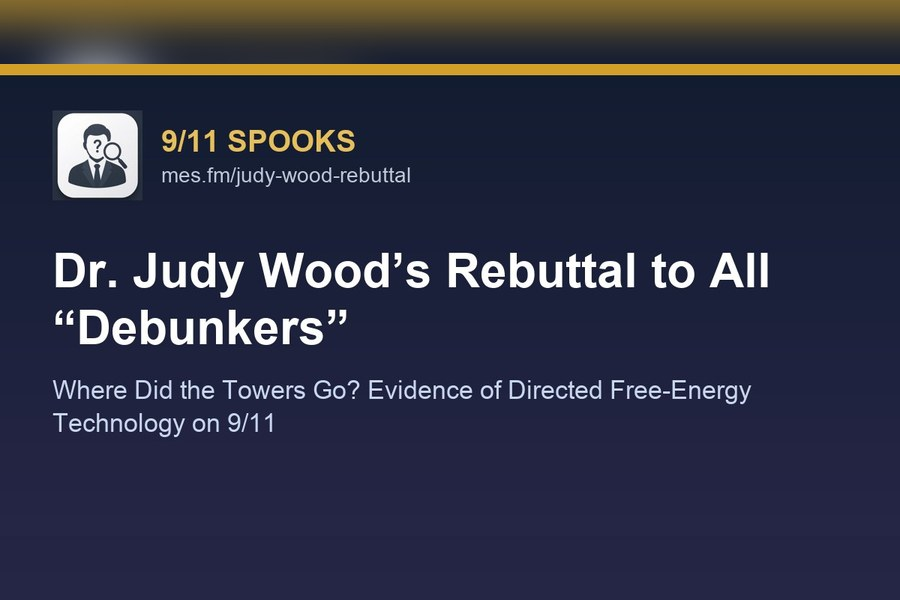
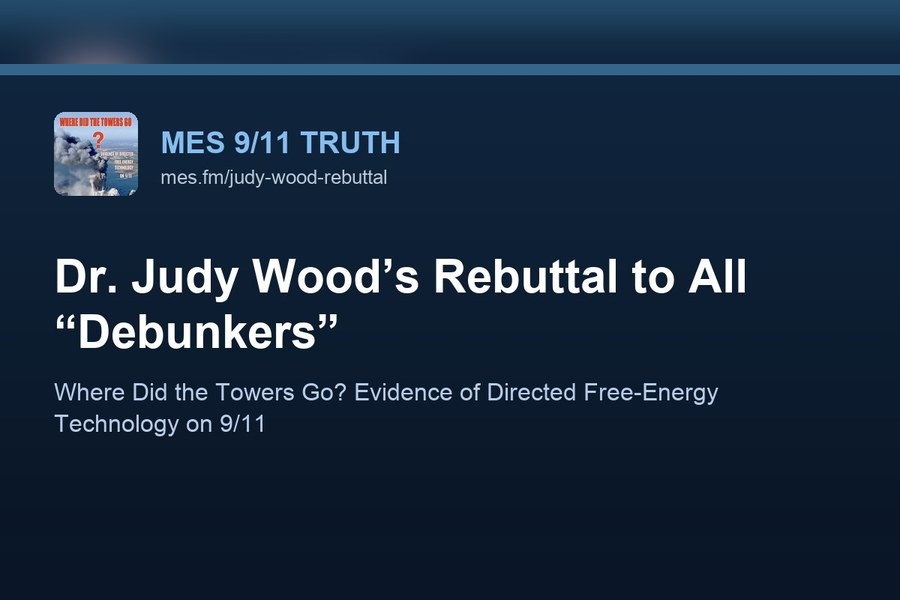
Judy Wood rebuttal: 9/11 Truth theme, own tile on the 9/11 Spooks hub
The page now uses the MES 9/11 Truth shell (logo, title, tagline, favicon,
floating bar, 9/11 Truth | Posts | Spooks info bar) instead of the 9/11 Spooks
brand, and its share card was redrawn in the 9/11 Truth colours with that
logo. It is no longer in the 9/11 Spooks Posts list: /911spooks gets a
tile-only entry instead (img/judy-wood-rebuttal-icon.jpg, the card fitted to
900x600), and the Spooks Posts tile goes back to the newest remaining post
(David Hughes = Fetzer 2.0). It stays at the top of 9/11 Truth Posts, whose
tile was refreshed with the new card.

diff --git a/mes.fm/911spooks-all/index.html b/mes.fm/911spooks-all/index.html
@@ -1038,12 +1038,12 @@ body.dark-mode .lp button:focus-visible, body.dark .lp button:focus-visible { ou
 <meta property="og:url" content="https://mes.fm/911spooks-all" />
 <meta property="og:title" content="All 9/11 Spooks Content" />
 <meta property="og:image" content="https://mes.fm/img/911spooks-logo-big.jpg" />
-<meta property="og:description" content="Everything in MES 9/11 Spooks on one page: all 17 posts, videos and articles from every section, searchable, with a filter per section and Grid or List view." />
-<meta name="description" content="Everything in MES 9/11 Spooks on one page: all 17 posts, videos and articles from every section, searchable, with a filter per section and Grid or List view.">
+<meta property="og:description" content="Everything in MES 9/11 Spooks on one page: all 16 posts, videos and articles from every section, searchable, with a filter per section and Grid or List view." />
+<meta name="description" content="Everything in MES 9/11 Spooks on one page: all 16 posts, videos and articles from every section, searchable, with a filter per section and Grid or List view.">
 <meta name="twitter:card" content="summary">
 <meta name="twitter:site" content="@MathEasySolns">
 <meta name="twitter:title" content="All 9/11 Spooks Content">
-<meta name="twitter:description" content="Everything in MES 9/11 Spooks on one page: all 17 posts, videos and articles from every section, searchable, with a filter per section and Grid or List view.">
+<meta name="twitter:description" content="Everything in MES 9/11 Spooks on one page: all 16 posts, videos and articles from every section, searchable, with a filter per section and Grid or List view.">
 <meta name="twitter:image" content="https://mes.fm/img/911spooks-logo-big.jpg">
 <meta name="twitter:image:alt" content="All 9/11 Spooks Content">
 <script>
@@ -1244,7 +1244,7 @@ body.dark-mode .lp button:focus-visible, body.dark .lp button:focus-visible { ou
         <p class="page-breadcrumb"><a href="/911spooks">&larr; 9/11 Spooks</a></p>
         <div class="color-box"></div>
         <h1 class="page-title">All 9/11 Spooks Content</h1>
-        <p class="page-description">Everything in MES 9/11 Spooks on one page: all 17 posts, videos and articles from every section, searchable, with a filter per section and Grid or List view.</p>
+        <p class="page-description">Everything in MES 9/11 Spooks on one page: all 16 posts, videos and articles from every section, searchable, with a filter per section and Grid or List view.</p>
         <div id="main-content">
           <div class="wide">
 <div class="list-container">
@@ -1252,9 +1252,9 @@ body.dark-mode .lp button:focus-visible, body.dark .lp button:focus-visible { ou
   
     <div class="ls-filter" id="911spooks-allFilter">
       <input type="search" id="911spooks-allSearch" placeholder="Search everything in 9/11 Spooks…" aria-label="Search" autocomplete="off">
-      <div class="lp-row"><div class="ls-chips" id="911spooks-allChips"><button type="button" data-c="all" data-label="All" aria-pressed="true">All (17)</button><button type="button" data-c="s-911spooks-posts" data-label="Posts" aria-pressed="false">Posts (15)</button><button type="button" data-c="s-911spooks-videos" data-label="Videos" aria-pressed="false">Videos (2)</button></div>
+      <div class="lp-row"><div class="ls-chips" id="911spooks-allChips"><button type="button" data-c="all" data-label="All" aria-pressed="true">All (16)</button><button type="button" data-c="s-911spooks-posts" data-label="Posts" aria-pressed="false">Posts (14)</button><button type="button" data-c="s-911spooks-videos" data-label="Videos" aria-pressed="false">Videos (2)</button></div>
       <div class="lp" data-lp role="group" aria-label="Open links in">
-        <span class="lp-lbl" aria-hidden="true">Open in:</span><button type="button" data-s="auto" aria-pressed="true" aria-label="Open in: Auto (the usual link: the mes.fm page when there is one)" title="Auto: the usual link (the mes.fm page when there is one)">Auto</button><button type="button" data-s="mes" data-label="MES.fm" aria-pressed="false" aria-label="Open in MES.fm (17 of 17 have a MES.fm link)" title="Open in MES.fm (17 of 17 have a MES.fm link)"><span class="lp-ic" data-s="mes" aria-hidden="true"></span><span class="lp-n">17</span></button><button type="button" data-s="youtube" data-label="YouTube" aria-pressed="false" aria-label="Open in YouTube (3 of 17 have a YouTube link)" title="Open in YouTube (3 of 17 have a YouTube link)" class="lp-few"><span class="lp-ic" data-s="youtube" aria-hidden="true"></span><span class="lp-n">3</span></button><button type="button" data-s="hive" data-label="Hive" aria-pressed="false" aria-label="Open in Hive (10 of 17 have a Hive link)" title="Open in Hive (10 of 17 have a Hive link)"><span class="lp-ic" data-s="hive" aria-hidden="true"></span><span class="lp-n">10</span></button><button type="button" data-s="3speak" data-label="3Speak" aria-pressed="false" aria-label="Open in 3Speak (3 of 17 have a 3Speak link)" title="Open in 3Speak (3 of 17 have a 3Speak link)" class="lp-few"><span class="lp-ic" data-s="3speak" aria-hidden="true"></span><span class="lp-n">3</span></button><button type="button" data-s="telegram" data-label="Telegram" aria-pressed="false" aria-label="Open in Telegram (11 of 17 have a Telegram link)" title="Open in Telegram (11 of 17 have a Telegram link)"><span class="lp-ic" data-s="telegram" aria-hidden="true"></span><span class="lp-n">11</span></button>
+        <span class="lp-lbl" aria-hidden="true">Open in:</span><button type="button" data-s="auto" aria-pressed="true" aria-label="Open in: Auto (the usual link: the mes.fm page when there is one)" title="Auto: the usual link (the mes.fm page when there is one)">Auto</button><button type="button" data-s="mes" data-label="MES.fm" aria-pressed="false" aria-label="Open in MES.fm (16 of 16 have a MES.fm link)" title="Open in MES.fm (16 of 16 have a MES.fm link)"><span class="lp-ic" data-s="mes" aria-hidden="true"></span><span class="lp-n">16</span></button><button type="button" data-s="youtube" data-label="YouTube" aria-pressed="false" aria-label="Open in YouTube (3 of 16 have a YouTube link)" title="Open in YouTube (3 of 16 have a YouTube link)" class="lp-few"><span class="lp-ic" data-s="youtube" aria-hidden="true"></span><span class="lp-n">3</span></button><button type="button" data-s="hive" data-label="Hive" aria-pressed="false" aria-label="Open in Hive (10 of 16 have a Hive link)" title="Open in Hive (10 of 16 have a Hive link)"><span class="lp-ic" data-s="hive" aria-hidden="true"></span><span class="lp-n">10</span></button><button type="button" data-s="3speak" data-label="3Speak" aria-pressed="false" aria-label="Open in 3Speak (3 of 16 have a 3Speak link)" title="Open in 3Speak (3 of 16 have a 3Speak link)" class="lp-few"><span class="lp-ic" data-s="3speak" aria-hidden="true"></span><span class="lp-n">3</span></button><button type="button" data-s="telegram" data-label="Telegram" aria-pressed="false" aria-label="Open in Telegram (11 of 16 have a Telegram link)" title="Open in Telegram (11 of 16 have a Telegram link)"><span class="lp-ic" data-s="telegram" aria-hidden="true"></span><span class="lp-n">11</span></button>
       </div></div>
     </div>
     <p class="ls-empty" id="911spooks-allEmpty" hidden>Nothing matches. Try fewer words or a different filter.</p>
@@ -1264,13 +1264,6 @@ body.dark-mode .lp button:focus-visible, body.dark .lp button:focus-visible { ou
       
     </div>
     <div class="card-grid" id="911spooks-allGrid">
-    <a class="link-card lp-a" data-cats="s-911spooks-posts" data-kw="Posts" data-lp-def="mes" data-l-mes="https://mes.fm/judy-wood-rebuttal" href="https://mes.fm/judy-wood-rebuttal">
-      <span class="link-card-thumb" style="background-image:url('https://mes.fm/judy-wood-rebuttal/img/judy-wood-rebuttal.jpg')"></span>
-      <span class="link-card-body">
-        <span class="link-card-title">Dr. Judy Wood's Rebuttal to All the “Debunkers”</span>
-        <span class="link-card-readmore"><span class="lp-ic" data-s="mes" aria-hidden="true"></span><span class="lp-name">View on MES.fm</span> &rarr;</span>
-      </span>
-    </a>
     <a class="link-card lp-a" data-cats="s-911spooks-posts" data-kw="Posts" data-lp-def="mes" data-l-mes="https://mes.fm/david-hughes-fetzer-2.0" data-l-hive="https://peakd.com/hive-113182/@mes/dear-dr-david-a-fetzer-j1c" href="https://mes.fm/david-hughes-fetzer-2.0">
       <span class="link-card-thumb" style="background-image:url('https://mes.fm/david-hughes-fetzer-2.0/img/hurricane-meme-og.jpg')"></span>
       <span class="link-card-body">
@@ -1385,11 +1378,6 @@ body.dark-mode .lp button:focus-visible, body.dark .lp button:focus-visible { ou
     </a>
     </div>
     <div class="list-view view-hidden" id="911spooks-allList">
-    <div class="list-row" data-cats="s-911spooks-posts" data-kw="Posts">
-      <h3><a class="lp-a" href="https://mes.fm/judy-wood-rebuttal" data-lp-def="mes" data-l-mes="https://mes.fm/judy-wood-rebuttal">Dr. Judy Wood's Rebuttal to All the “Debunkers”<span class="lp-ic" data-s="mes" aria-hidden="true"></span></a></h3>
-      <p><a href="https://mes.fm/judy-wood-rebuttal" target="_blank" rel="noopener">Notes</a></p>
-      <img class="list-thumb" src="https://mes.fm/judy-wood-rebuttal/img/judy-wood-rebuttal.jpg" alt="Dr. Judy Wood's Rebuttal to All the “Debunkers”">
-    </div>
     <div class="list-row" data-cats="s-911spooks-posts" data-kw="Posts">
       <h3><a class="lp-a" href="https://mes.fm/david-hughes-fetzer-2.0" data-lp-def="mes" data-l-mes="https://mes.fm/david-hughes-fetzer-2.0" data-l-hive="https://peakd.com/hive-113182/@mes/dear-dr-david-a-fetzer-j1c">Dear Dr. David A. Fetzer...<span class="lp-ic" data-s="mes" aria-hidden="true"></span></a></h3>
       <p><a href="https://mes.fm/david-hughes-fetzer-2.0" target="_blank" rel="noopener">Notes</a> - <a href="https://peakd.com/hive-113182/@mes/dear-dr-david-a-fetzer-j1c" target="_blank" rel="noopener">Hive</a></p>

diff --git a/mes.fm/911spooks-posts/index.html b/mes.fm/911spooks-posts/index.html
@@ -1252,9 +1252,9 @@ body.dark-mode .lp button:focus-visible, body.dark .lp button:focus-visible { ou
   
     <div class="ls-filter" id="911spooks-postsFilter">
       <input type="search" id="911spooks-postsSearch" placeholder="Search the spooks…" aria-label="Search" autocomplete="off">
-      <div class="lp-row"><div class="ls-chips" id="911spooks-postsChips"><button type="button" data-c="all" data-label="All" aria-pressed="true">All (15)</button><button type="button" data-c="bob" data-label="Bob Greenyer" aria-pressed="false">Bob Greenyer (4)</button><button type="button" data-c="revisionist" data-label="9/11 Revisionist" aria-pressed="false">9/11 Revisionist (6)</button><button type="button" data-c="abby" data-label="Abby Martin" aria-pressed="false">Abby Martin (1)</button><button type="button" data-c="hughes" data-label="David Hughes" aria-pressed="false">David Hughes (2)</button><button type="button" data-c="fetzer" data-label="Jim Fetzer" aria-pressed="false">Jim Fetzer (1)</button><button type="button" data-c="ryan" data-label="Ryan Bannister" aria-pressed="false">Ryan Bannister (3)</button><button type="button" data-c="mason" data-label="Andrew Mason" aria-pressed="false">Andrew Mason (1)</button><button type="button" data-c="offguardian" data-label="Off Guardian" aria-pressed="false">Off Guardian (1)</button><button type="button" data-c="other" data-label="Everything else" aria-pressed="false">Everything else (3)</button></div>
+      <div class="lp-row"><div class="ls-chips" id="911spooks-postsChips"><button type="button" data-c="all" data-label="All" aria-pressed="true">All (14)</button><button type="button" data-c="bob" data-label="Bob Greenyer" aria-pressed="false">Bob Greenyer (4)</button><button type="button" data-c="revisionist" data-label="9/11 Revisionist" aria-pressed="false">9/11 Revisionist (6)</button><button type="button" data-c="abby" data-label="Abby Martin" aria-pressed="false">Abby Martin (1)</button><button type="button" data-c="hughes" data-label="David Hughes" aria-pressed="false">David Hughes (2)</button><button type="button" data-c="fetzer" data-label="Jim Fetzer" aria-pressed="false">Jim Fetzer (1)</button><button type="button" data-c="ryan" data-label="Ryan Bannister" aria-pressed="false">Ryan Bannister (3)</button><button type="button" data-c="mason" data-label="Andrew Mason" aria-pressed="false">Andrew Mason (1)</button><button type="button" data-c="offguardian" data-label="Off Guardian" aria-pressed="false">Off Guardian (1)</button><button type="button" data-c="other" data-label="Everything else" aria-pressed="false">Everything else (2)</button></div>
       <div class="lp" data-lp role="group" aria-label="Open links in">
-        <span class="lp-lbl" aria-hidden="true">Open in:</span><button type="button" data-s="auto" aria-pressed="true" aria-label="Open in: Auto (the usual link: the mes.fm page when there is one)" title="Auto: the usual link (the mes.fm page when there is one)">Auto</button><button type="button" data-s="mes" data-label="MES.fm" aria-pressed="false" aria-label="Open in MES.fm (15 of 15 have a MES.fm link)" title="Open in MES.fm (15 of 15 have a MES.fm link)"><span class="lp-ic" data-s="mes" aria-hidden="true"></span><span class="lp-n">15</span></button><button type="button" data-s="youtube" data-label="YouTube" aria-pressed="false" aria-label="Open in YouTube (1 of 15 have a YouTube link)" title="Open in YouTube (1 of 15 have a YouTube link)" class="lp-few"><span class="lp-ic" data-s="youtube" aria-hidden="true"></span><span class="lp-n">1</span></button><button type="button" data-s="hive" data-label="Hive" aria-pressed="false" aria-label="Open in Hive (10 of 15 have a Hive link)" title="Open in Hive (10 of 15 have a Hive link)"><span class="lp-ic" data-s="hive" aria-hidden="true"></span><span class="lp-n">10</span></button><button type="button" data-s="3speak" data-label="3Speak" aria-pressed="false" aria-label="Open in 3Speak (1 of 15 have a 3Speak link)" title="Open in 3Speak (1 of 15 have a 3Speak link)" class="lp-few"><span class="lp-ic" data-s="3speak" aria-hidden="true"></span><span class="lp-n">1</span></button><button type="button" data-s="telegram" data-label="Telegram" aria-pressed="false" aria-label="Open in Telegram (9 of 15 have a Telegram link)" title="Open in Telegram (9 of 15 have a Telegram link)"><span class="lp-ic" data-s="telegram" aria-hidden="true"></span><span class="lp-n">9</span></button>
+        <span class="lp-lbl" aria-hidden="true">Open in:</span><button type="button" data-s="auto" aria-pressed="true" aria-label="Open in: Auto (the usual link: the mes.fm page when there is one)" title="Auto: the usual link (the mes.fm page when there is one)">Auto</button><button type="button" data-s="mes" data-label="MES.fm" aria-pressed="false" aria-label="Open in MES.fm (14 of 14 have a MES.fm link)" title="Open in MES.fm (14 of 14 have a MES.fm link)"><span class="lp-ic" data-s="mes" aria-hidden="true"></span><span class="lp-n">14</span></button><button type="button" data-s="youtube" data-label="YouTube" aria-pressed="false" aria-label="Open in YouTube (1 of 14 have a YouTube link)" title="Open in YouTube (1 of 14 have a YouTube link)" class="lp-few"><span class="lp-ic" data-s="youtube" aria-hidden="true"></span><span class="lp-n">1</span></button><button type="button" data-s="hive" data-label="Hive" aria-pressed="false" aria-label="Open in Hive (10 of 14 have a Hive link)" title="Open in Hive (10 of 14 have a Hive link)"><span class="lp-ic" data-s="hive" aria-hidden="true"></span><span class="lp-n">10</span></button><button type="button" data-s="3speak" data-label="3Speak" aria-pressed="false" aria-label="Open in 3Speak (1 of 14 have a 3Speak link)" title="Open in 3Speak (1 of 14 have a 3Speak link)" class="lp-few"><span class="lp-ic" data-s="3speak" aria-hidden="true"></span><span class="lp-n">1</span></button><button type="button" data-s="telegram" data-label="Telegram" aria-pressed="false" aria-label="Open in Telegram (9 of 14 have a Telegram link)" title="Open in Telegram (9 of 14 have a Telegram link)"><span class="lp-ic" data-s="telegram" aria-hidden="true"></span><span class="lp-n">9</span></button>
       </div></div>
     </div>
     <p class="ls-empty" id="911spooks-postsEmpty" hidden>Nothing matches. Try fewer words or a different filter.</p>
@@ -1264,13 +1264,6 @@ body.dark-mode .lp button:focus-visible, body.dark .lp button:focus-visible { ou
       
     </div>
     <div class="card-grid" id="911spooks-postsGrid">
-    <a class="link-card lp-a" data-cats="other" data-lp-def="mes" data-l-mes="https://mes.fm/judy-wood-rebuttal" href="https://mes.fm/judy-wood-rebuttal">
-      <span class="link-card-thumb" style="background-image:url('https://mes.fm/judy-wood-rebuttal/img/judy-wood-rebuttal.jpg')"></span>
-      <span class="link-card-body">
-        <span class="link-card-title">Dr. Judy Wood's Rebuttal to All the “Debunkers”</span>
-        <span class="link-card-readmore"><span class="lp-ic" data-s="mes" aria-hidden="true"></span><span class="lp-name">View on MES.fm</span> &rarr;</span>
-      </span>
-    </a>
     <a class="link-card lp-a" data-cats="hughes fetzer" data-lp-def="mes" data-l-mes="https://mes.fm/david-hughes-fetzer-2.0" data-l-hive="https://peakd.com/hive-113182/@mes/dear-dr-david-a-fetzer-j1c" href="https://mes.fm/david-hughes-fetzer-2.0">
       <span class="link-card-thumb" style="background-image:url('https://mes.fm/david-hughes-fetzer-2.0/img/hurricane-meme-og.jpg')"></span>
       <span class="link-card-body">
@@ -1371,11 +1364,6 @@ body.dark-mode .lp button:focus-visible, body.dark .lp button:focus-visible { ou
     </a>
     </div>
     <div class="list-view view-hidden" id="911spooks-postsList">
-    <div class="list-row" data-cats="other">
-      <h3><a class="lp-a" href="https://mes.fm/judy-wood-rebuttal" data-lp-def="mes" data-l-mes="https://mes.fm/judy-wood-rebuttal">Dr. Judy Wood's Rebuttal to All the “Debunkers”<span class="lp-ic" data-s="mes" aria-hidden="true"></span></a></h3>
-      <p><a href="https://mes.fm/judy-wood-rebuttal" target="_blank" rel="noopener">Notes</a></p>
-      <img class="list-thumb" src="https://mes.fm/judy-wood-rebuttal/img/judy-wood-rebuttal.jpg" alt="Dr. Judy Wood's Rebuttal to All the “Debunkers”">
-    </div>
     <div class="list-row" data-cats="hughes fetzer">
       <h3><a class="lp-a" href="https://mes.fm/david-hughes-fetzer-2.0" data-lp-def="mes" data-l-mes="https://mes.fm/david-hughes-fetzer-2.0" data-l-hive="https://peakd.com/hive-113182/@mes/dear-dr-david-a-fetzer-j1c">Dear Dr. David A. Fetzer...<span class="lp-ic" data-s="mes" aria-hidden="true"></span></a></h3>
       <p><a href="https://mes.fm/david-hughes-fetzer-2.0" target="_blank" rel="noopener">Notes</a> - <a href="https://peakd.com/hive-113182/@mes/dear-dr-david-a-fetzer-j1c" target="_blank" rel="noopener">Hive</a></p>

diff --git a/mes.fm/judy-wood-rebuttal/index.html b/mes.fm/judy-wood-rebuttal/index.html
@@ -21,7 +21,7 @@
   <meta name="twitter:description" content="Dr. Judy Wood has written a rebuttal to all &quot;debunkers&quot;: her book Where Did the Towers Go? Get it through inter-library loan, wheredidthetowersgo.com or Amazon.">
   <meta name="twitter:image" content="https://mes.fm/judy-wood-rebuttal/img/judy-wood-rebuttal.jpg">
   <!-- OG-TAGS:END -->
-  <link rel="icon" href="https://mes.fm/img/911spooks-logo.jpg?v=1.0" type="image/jpeg" />
+  <link rel="icon" href="https://mes.fm/img/favicon.ico?v=1.0" type="image/x-icon" />
   <title>Dr. Judy Wood&#39;s Rebuttal to All the “Debunkers” | 9/11 Spooks</title>
   <style>
     * { box-sizing: border-box; }
@@ -646,8 +646,8 @@
 <body class="dark">
 
   <div id="compact-nav" aria-hidden="true" style="display:none">
-  <a href="/911spooks" tabindex="-1"><img class="compact-nav-logo" alt="" width="32" height="32" src="https://mes.fm/img/911spooks-logo.jpg"></a>
-  <a class="compact-nav-title" href="/911spooks" tabindex="-1">9/11 Spooks</a>
+  <a href="/911" tabindex="-1"><img class="compact-nav-logo" alt="" width="32" height="32" src="https://mes.fm/img/911-truth-logo.jpg"></a>
+  <a class="compact-nav-title" href="/911" tabindex="-1">MES 9/11 Truth</a>
   <ul class="compact-nav-links">
     <li><a href="/math" tabindex="-1">Math Tutorials</a></li>
     <li><a href="/calculators" tabindex="-1">Calculators</a></li>
@@ -664,8 +664,8 @@
   <div class="container has-aside">
     <div class="top-bar">
       <div class="site-brand">
-        <a class="site-brand-logo-link" href="/911spooks"><img class="site-brand-logo" src="/img/911spooks-logo.jpg" width="88" height="88" alt="9/11 Spooks logo"></a>
-        <div class="site-brand-text"><a class="site-brand-title" href="/911spooks">9/11 Spooks</a><p class="site-brand-tag">Posts and videos on the 9/11 disinfo spooks.</p></div>
+        <a class="site-brand-logo-link" href="/911"><img class="site-brand-logo" src="/img/911-truth-logo.jpg" width="88" height="88" alt="MES 9/11 Truth logo"></a>
+        <div class="site-brand-text"><a class="site-brand-title" href="/911">MES 9/11 Truth</a><p class="site-brand-tag">Videos, livestreams and research on 9/11.</p></div>
       </div>
       <div class="header-controls">
         <button id="textSizeDown" class="header-icon-btn" type="button" aria-label="Decrease text size" title="Decrease text size">A&minus;</button>
@@ -685,7 +685,6 @@
             <li class="social__logo social__patreon"><a class="social__link" href="https://www.patreon.com/matheasysolutions" target="_blank"></a></li>
           </ul></div></li>
         <li class="navbar__item"><a class="navbar__link navbar__link--first" href="/">Home</a></li>
-        <li class="navbar__item"><a target="_self" class="navbar__link" href="/911spooks">9/11 Spooks</a></li>
         <li class="navbar__item"><a target="_self" class="navbar__link" href="/911">9/11 Truth</a></li>
         <li class="navbar__item"><a target="_self" class="navbar__link" href="https://mes.fm/math">Math Tutorials</a></li>
         <li class="navbar__item"><a class="navbar__link" href="/calculators">Calculators</a></li>
@@ -701,9 +700,9 @@
     </div>
     <div class="info-bar-container" role="navigation" aria-label="Primary">
       <ul id="info-bar" class="info-bar">
-        <li class="info-bar__item"><a target="_self" class="info-bar__item__text" href="/911spooks">Spooks</a></li>
-        <li class="info-bar__item"><a class="info-bar__item__text" href="/911spooks-posts">Posts</a></li>
-        <li class="info-bar__item"><a class="info-bar__item__text" href="/911">9/11 Truth</a></li>
+        <li class="info-bar__item"><a target="_self" class="info-bar__item__text" href="/911">9/11 Truth</a></li>
+        <li class="info-bar__item"><a class="info-bar__item__text" href="/911-posts">Posts</a></li>
+        <li class="info-bar__item"><a class="info-bar__item__text" href="/911spooks">Spooks</a></li>
         <li class="info-bar__item"><a class="info-bar__item__text" href="/conspiracy">Conspiracy</a></li>
         <li class="info-bar__item"><a class="info-bar__item__text" href="/calculators">Calculators</a></li>
         <li class="info-bar__item"><a class="info-bar__item__text" href="/tools">Tools</a></li>
@@ -718,7 +717,7 @@
         <li class="info-bar__item info-bar__item--mes"><a class="info-bar__item__text" href="/" style="font-weight:bold;">MES.fm</a></li>
       </ul>
     </div>
-    <!-- MES-COLS-START --><div class="mes-cols"><div class="mes-col-main"><div class="part-of">Part of <a href="https://mes.fm/911">MES 9/11 Truth</a> &middot; <a href="https://mes.fm/911-posts">Posts</a> &middot; <a href="https://mes.fm/911spooks">9/11 Spooks</a> &middot; <a href="https://mes.fm/911spooks-posts">Posts</a></div>
+    <!-- MES-COLS-START --><div class="mes-cols"><div class="mes-col-main"><div class="part-of">Part of <a href="https://mes.fm/911">MES 9/11 Truth</a> &middot; <a href="https://mes.fm/911-posts">Posts</a> &middot; <a href="https://mes.fm/911spooks">9/11 Spooks</a></div>
 
     <h1>Dr. Judy Wood&#39;s Rebuttal to All the “Debunkers”</h1>
     <div class="page-subtitle">Article &middot; October 27, 2026 &middot; MES</div>

diff --git a/mes.fm/911spooks/index.html b/mes.fm/911spooks/index.html
@@ -1173,8 +1173,9 @@ body.is-stuck #header-controls { transform: none; bottom: auto; }
           <div class="wide">
 <div class="icon-grid">
 <a class="icon-grid__link icon-grid__link--labeled" href="/911spooks-all"><span class="icon-grid__thumb" style="background-image:url('/img/911spooks-all-icon.jpg?v=1')"></span><span class="icon-grid__label">All Content</span></a>
-<a class="icon-grid__link icon-grid__link--labeled" href="/911spooks-posts"><span class="icon-grid__thumb" style="background-image:url('/img/911spooks-posts-icon.jpg?v=4')"></span><span class="icon-grid__label">Posts</span></a>
+<a class="icon-grid__link icon-grid__link--labeled" href="/911spooks-posts"><span class="icon-grid__thumb" style="background-image:url('/img/911spooks-posts-icon.jpg?v=6')"></span><span class="icon-grid__label">Posts</span></a>
 <a class="icon-grid__link icon-grid__link--labeled" href="/911spooks-videos"><span class="icon-grid__thumb" style="background-image:url('/img/911spooks-videos-icon.jpg?v=1')"></span><span class="icon-grid__label">Videos</span></a>
+<a class="icon-grid__link icon-grid__link--labeled" href="/judy-wood-rebuttal"><span class="icon-grid__thumb" style="background-image:url('/img/judy-wood-rebuttal-icon.jpg?v=1')"></span><span class="icon-grid__label">Dr. Judy Wood's Rebuttal</span></a>
 <a class="icon-grid__link icon-grid__link--labeled" href="/livestream-112-911-spooks"><span class="icon-grid__thumb" style="background-image:url('/img/livestream-112-911-spooks-icon.jpg?v=1')"></span><span class="icon-grid__label">Livestream 112: 9/11 Spooks Database</span></a>
 <a class="icon-grid__link icon-grid__link--labeled" href="/bg"><span class="icon-grid__thumb" style="background-image:url('/img/bg-icon.jpg?v=1')"></span><span class="icon-grid__label">Bob Greenyer (BG)</span></a>
 <a class="icon-grid__link icon-grid__link--labeled" href="/911-andrew-johnson-books"><span class="icon-grid__thumb" style="background-image:url('/img/911-andrew-johnson-books-icon.jpg?v=1')"></span><span class="icon-grid__label">Andrew Johnson's 9/11 Books</span></a>

diff --git a/mes.fm/911/index.html b/mes.fm/911/index.html
@@ -1170,7 +1170,7 @@ body.is-stuck #header-controls { transform: none; bottom: auto; }
           <div class="wide">
 <div class="icon-grid">
 <a class="icon-grid__link icon-grid__link--labeled" href="/911-all"><span class="icon-grid__thumb" style="background-image:url('/img/911-all-icon.jpg?v=1')"></span><span class="icon-grid__label">All Content</span></a>
-<a class="icon-grid__link icon-grid__link--labeled" href="/911-posts"><span class="icon-grid__thumb" style="background-image:url('/img/911-posts-icon.jpg?v=8')"></span><span class="icon-grid__label">Posts</span></a>
+<a class="icon-grid__link icon-grid__link--labeled" href="/911-posts"><span class="icon-grid__thumb" style="background-image:url('/img/911-posts-icon.jpg?v=9')"></span><span class="icon-grid__label">Posts</span></a>
 <a class="icon-grid__link icon-grid__link--labeled" href="/911spooks"><span class="icon-grid__thumb" style="background-image:url('/img/911spooks-icon.jpg?v=2')"></span><span class="icon-grid__label">Spooks</span></a>
 <a class="icon-grid__link icon-grid__link--labeled" href="/911-videos"><span class="icon-grid__thumb" style="background-image:url('/img/911-videos-icon.jpg?v=7')"></span><span class="icon-grid__label">Videos</span></a>
 <a class="icon-grid__link icon-grid__link--labeled" href="/911truth"><span class="icon-grid__thumb" style="background-image:url('/img/911-truth-series-icon.jpg')"></span><span class="icon-grid__label">9/11 Truth Video Series</span></a>
